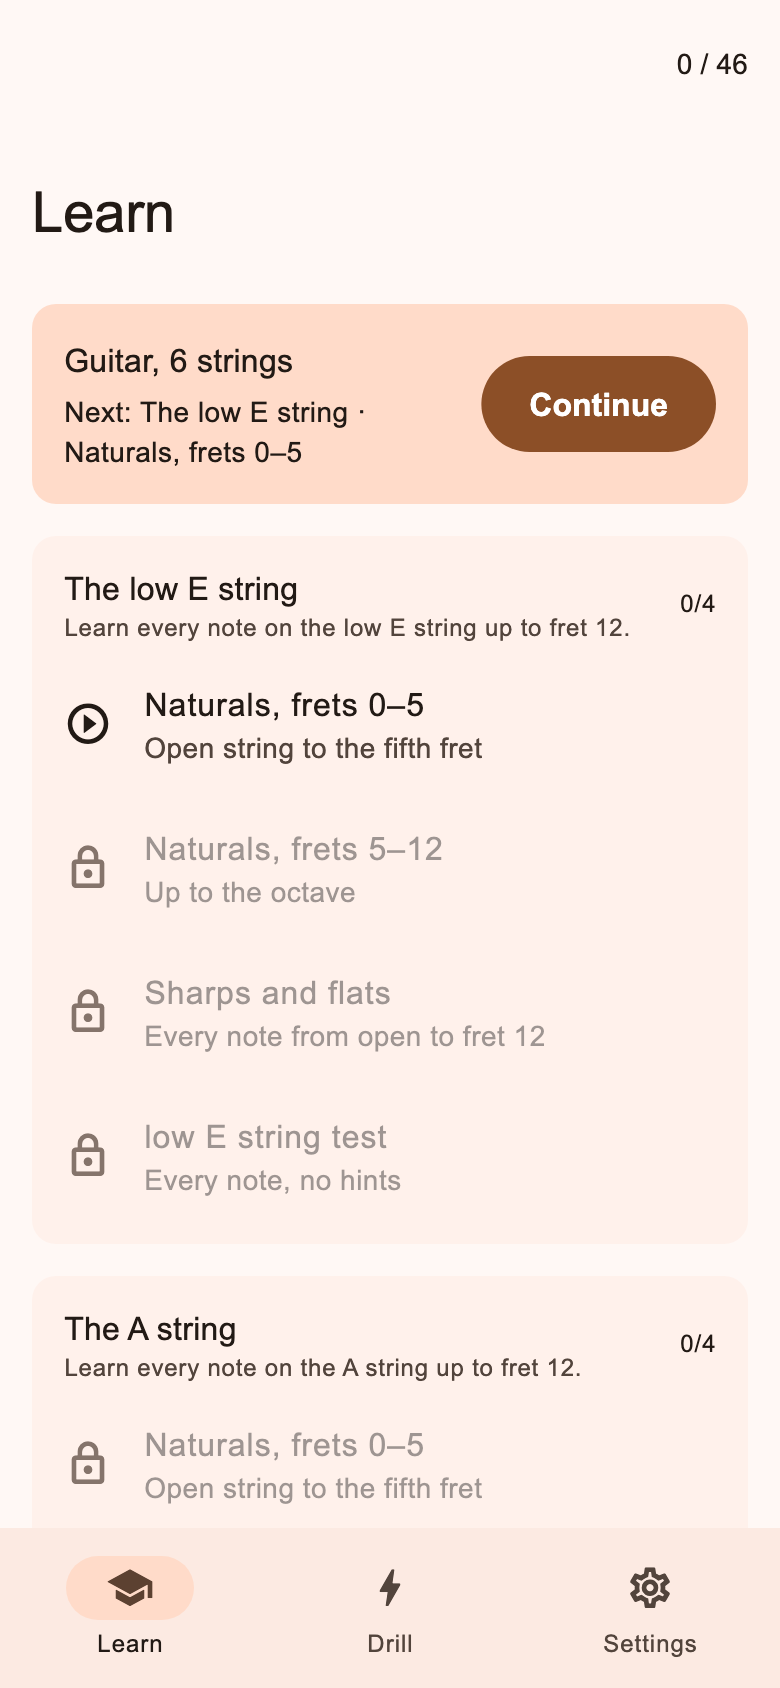
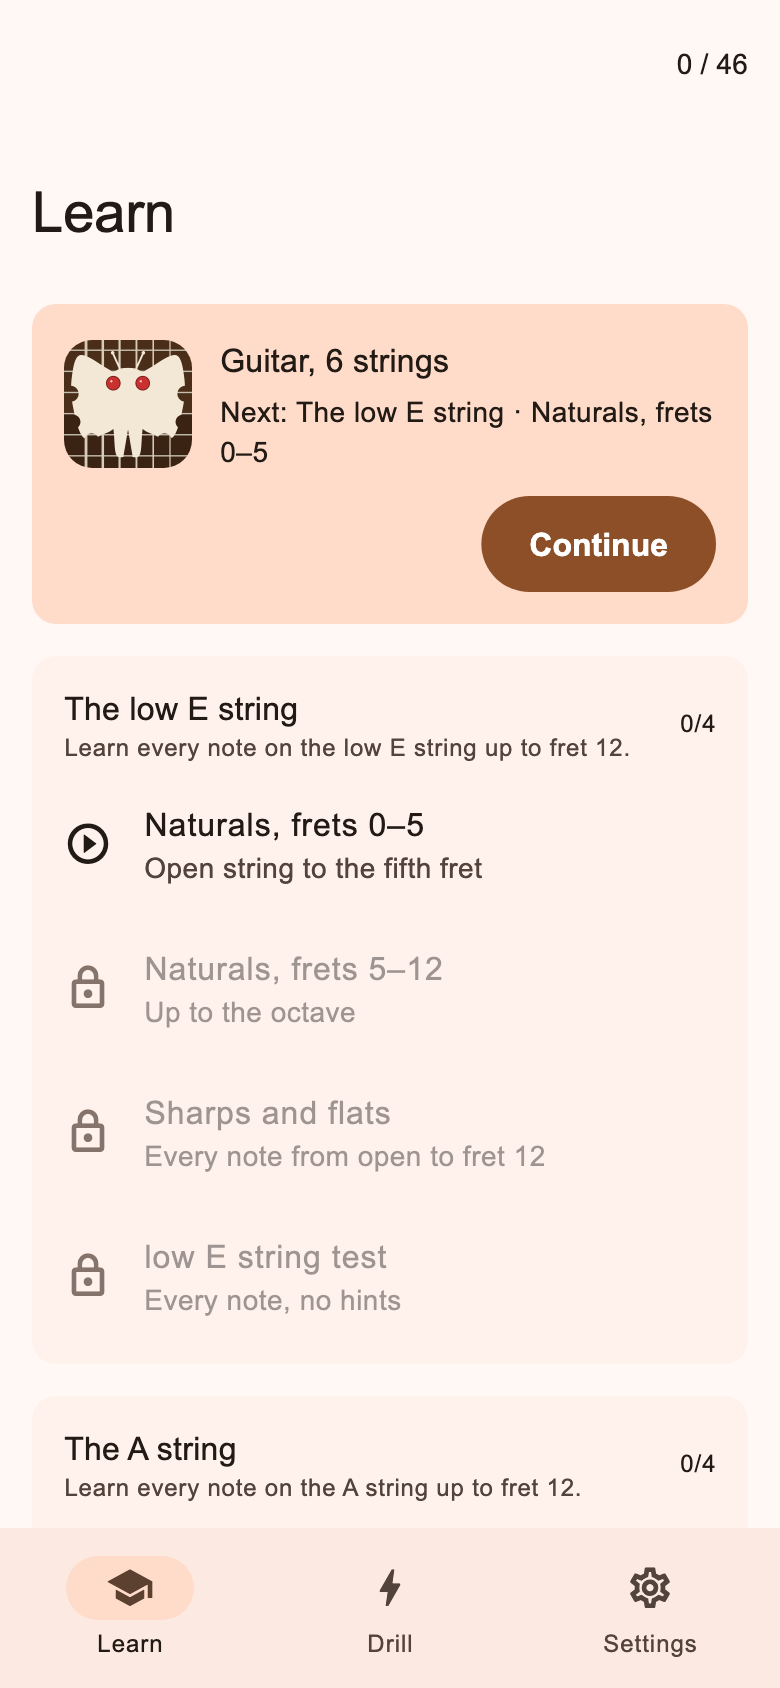
Release 0.2.0
Claude-Session: https://claude.ai/code/session_01HVi1ipDRckv8DYLY25SsTG

diff --git a/apps/fretboard_trainer/lib/features/learn/learn_screen.dart b/apps/fretboard_trainer/lib/features/learn/learn_screen.dart
@@ -44,31 +44,51 @@ class LearnScreen extends ConsumerWidget {
               color: theme.colorScheme.primaryContainer,
               child: Padding(
                 padding: const EdgeInsets.all(16),
-                child: Row(
+                child: Column(
+                  crossAxisAlignment: CrossAxisAlignment.stretch,
                   children: [
-                    Expanded(
-                      child: Column(
-                        crossAxisAlignment: CrossAxisAlignment.start,
-                        children: [
-                          Text(
-                            '${settings.kind.label}, ${settings.stringCount} strings',
-                            style: theme.textTheme.titleMedium,
+                    Row(
+                      children: [
+                        ClipRRect(
+                          borderRadius: BorderRadius.circular(14),
+                          child: Image.asset(
+                            'assets/icon/icon_512.png',
+                            width: 64,
+                            height: 64,
+                            semanticLabel: 'Fretman',
                           ),
-                          const SizedBox(height: 4),
-                          Text(
-                            next == null
-                                ? 'Every lesson complete. Nice.'
-                                : 'Next: ${curriculum.unitOf(next).title} · ${next.title}',
-                            style: theme.textTheme.bodyMedium,
+                        ),
+                        const SizedBox(width: 14),
+                        Expanded(
+                          child: Column(
+                            crossAxisAlignment: CrossAxisAlignment.start,
+                            children: [
+                              Text(
+                                '${settings.kind.label}, ${settings.stringCount} strings',
+                                style: theme.textTheme.titleMedium,
+                              ),
+                              const SizedBox(height: 4),
+                              Text(
+                                next == null
+                                    ? 'Every lesson complete. Nice.'
+                                    : 'Next: ${curriculum.unitOf(next).title} · ${next.title}',
+                                style: theme.textTheme.bodyMedium,
+                              ),
+                            ],
                           ),
-                        ],
-                      ),
+                        ),
+                      ],
                     ),
-                    if (next != null)
-                      FilledButton(
-                        onPressed: () => openLesson(context, next),
-                        child: const Text('Continue'),
+                    if (next != null) ...[
+                      const SizedBox(height: 12),
+                      Align(
+                        alignment: Alignment.centerRight,
+                        child: FilledButton(
+                          onPressed: () => openLesson(context, next),
+                          child: const Text('Continue'),
+                        ),
                       ),
+                    ],
                   ],
                 ),
               ),

diff --git a/apps/fretboard_trainer/lib/features/settings/settings_screen.dart b/apps/fretboard_trainer/lib/features/settings/settings_screen.dart
@@ -167,9 +167,17 @@ class SettingsScreen extends ConsumerWidget {
               },
             ),
             section('About'),
-            const ListTile(
-              title: Text('Fretman'),
-              subtitle: Text(
+            ListTile(
+              leading: ClipRRect(
+                borderRadius: BorderRadius.circular(10),
+                child: Image.asset(
+                  'assets/icon/icon_512.png',
+                  width: 44,
+                  height: 44,
+                ),
+              ),
+              title: const Text('Fretman'),
+              subtitle: const Text(
                 'Fretboard Trainer. Notes and chords on guitar and bass, '
                 'one quick drill at a time.',
               ),

diff --git a/apps/fretboard_trainer/test/screenshots/screenshots_test.dart b/apps/fretboard_trainer/test/screenshots/screenshots_test.dart
@@ -63,6 +63,16 @@ void main() {
 
   Future<void> shot(WidgetTester tester, String name) async {
     await tester.pumpAndSettle();
+    // Widget tests never decode images on their own; do it for the icon.
+    final images = find.byType(Image).evaluate().toList();
+    if (images.isNotEmpty) {
+      await tester.runAsync(() async {
+        for (final e in images) {
+          await precacheImage((e.widget as Image).image, e);
+        }
+      });
+      await tester.pumpAndSettle();
+    }
     await expectLater(
       find.byType(MaterialApp).first,
       matchesGoldenFile('../../../../docs/screenshots/$name.png'),

diff --git a/CHANGELOG.md b/CHANGELOG.md
@@ -5,14 +5,25 @@ becomes the GitHub Release notes.
 
 ## Unreleased
 
+## 0.2.0 — 2026-09-11
+
 ### Added
 - **Octave shapes** unit on the learning path, right after the two lowest
   strings: two strings up and two frets higher (E→D, A→G), three frets higher
   across the B string (D→B, G→E), the long reaches (E→G, A→B, D→E) and the
   same fret on the two E strings. Each lesson shows the shape on the
   fretboard, then asks you to find a note's octave. Bass gets the shapes
-  that exist on four strings.
+  that exist on four strings. The unit is new in the middle of the path;
+  existing progress is kept and it simply becomes the next thing to do.
 - **Octave shapes** question type in the free drill.
+- The Fretman icon on the Learn screen and in Settings → About.
+- A [wiki](https://github.com/drlholloway/fretboardtrainer/wiki) with
+  installation, first steps, the learning path, drills, chords and tunings,
+  settings and troubleshooting.
+
+### Fixed
+- **Next lesson** on the result screen now opens the next lesson instead of
+  staying on the previous lesson's result.
 
 ## 0.1.0 — 2026-09-10
 
